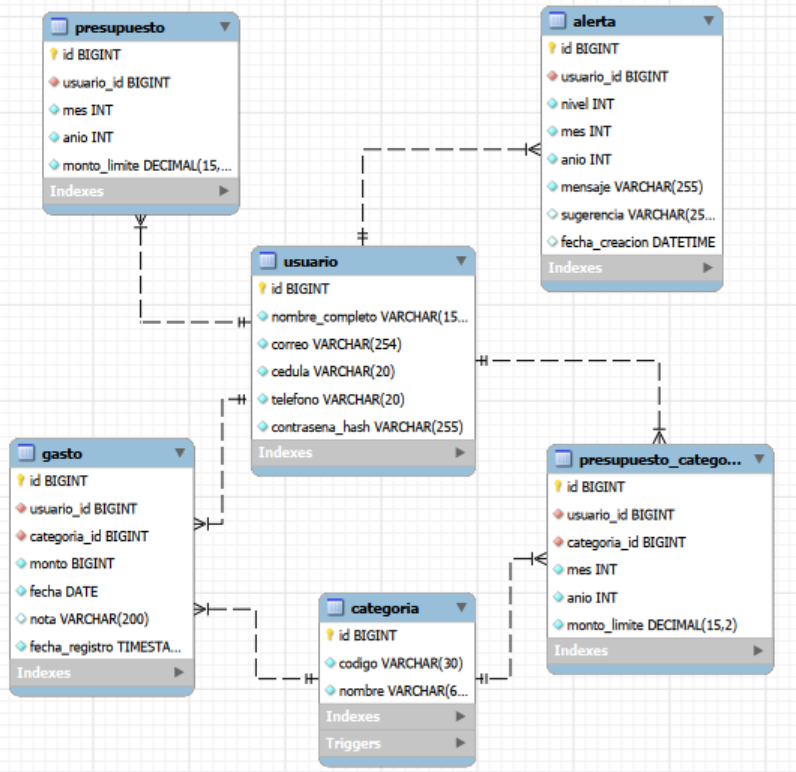
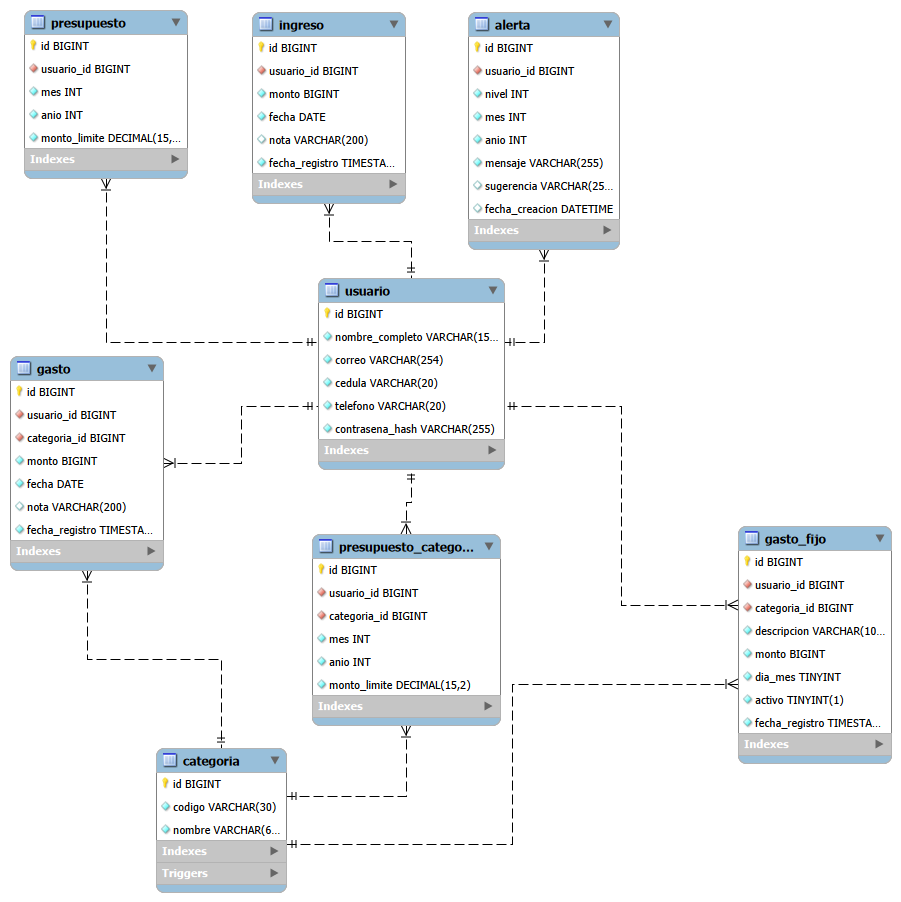
feat(CFP-35): agrega ingresos, gastos fijos, vistas del Dashboard y datos semilla

diff --git a/docs/modelo-datos.md b/docs/modelo-datos.md
@@ -1,7 +1,7 @@
-# Modelo de datos – Sprint 1 y Sprint 2
+# Modelo de datos – Sprints 1, 2 y 3
 
-Responsable actual: Luis Fernando Salazar (Datos) · Subtareas: CFP-25 (Sprint 1) y CFP-30 (Sprint 2)
-Motor: MySQL 8 · Scripts: db/schema.sql, db/migraciones/V2__presupuesto_y_alertas.sql, db/pruebas.sql y db/migraciones/pruebas_V2.sql
+Responsable actual: Luis Fernando Salazar (Datos) · Subtareas: CFP-25 (Sprint 1), CFP-30 (Sprint 2) y CFP-35 (Sprint 3)
+Motor: MySQL 8 · Scripts: db/schema.sql, db/migraciones/V2__presupuesto_y_alertas.sql, db/migraciones/V3__ingresos_gastos_fijos_y_vistas.sql y sus pruebas
 
 ## Diagrama entidad-relación
 
@@ -17,6 +17,8 @@ Motor: MySQL 8 · Scripts: db/schema.sql, db/migraciones/V2__presupuesto_y_alert
 | Presupuesto (Sprint 2) | id, usuario_id, mes, anio, monto_limite | Definido | Pertenece a un usuario | Gasto mensual del usuario (RF-07); uno por usuario y mes; monto > 0; mes de 1 a 12 |
 | Presupuesto por categoría (Sprint 2) | id, usuario_id, categoria_id, mes, anio, monto_limite | Definido | Pertenece a un usuario y a una categoría | Gasto fijado por categoría (RF-07); uno por usuario, categoría y mes; monto > 0 |
 | Alerta (Sprint 2) | id, usuario_id, nivel, mes, anio, mensaje, sugerencia, fecha_creacion | Generada | Pertenece a un usuario | Nivel 70, 80 o 90 (RF-09, RN-04); la misma alerta no se repite en el mes (CA-19); se reinicia cada mes (CA-20); incluye sugerencia (RN-06) |
+| Ingreso (Sprint 3) | id, usuario_id, monto, fecha, nota, fecha_registro | Registrado | Pertenece a un usuario | Monto > 0 (RN-01); fecha obligatoria; nota opcional de 200 caracteres (RN-08); no tiene categoría (RF-02) |
+| Gasto fijo (Sprint 3) | id, usuario_id, categoria_id, descripcion, monto, dia_mes, activo, fecha_registro | Activo / inactivo | Pertenece a un usuario y a una categoría | Monto > 0; día del mes de 1 a 28 (existe en todos los meses); un usuario no repite la misma descripción (RF-06) |
 | Total y porcentaje del mes (calculado) | Suma de montos por usuario y mes, y porcentaje sobre el presupuesto | — | Se calcula desde Gasto y Presupuesto | No se guarda, para que coincida con lo registrado (RN-07, RNF-01) |
 
 ## Relaciones
@@ -25,17 +27,31 @@ Motor: MySQL 8 · Scripts: db/schema.sql, db/migraciones/V2__presupuesto_y_alert
 - USUARIO 1 ──< PRESUPUESTO
 - USUARIO 1 ──< PRESUPUESTO_CATEGORIA >── 1 CATEGORIA
 - USUARIO 1 ──< ALERTA
+- USUARIO 1 ──< INGRESO
+- USUARIO 1 ──< GASTO_FIJO >── 1 CATEGORIA
+
+## Vistas (Sprint 3)
+
+| Vista | Para qué sirve | Requisito |
+|---|---|---|
+| v_movimiento | Ingresos y gastos en una sola lista (tipo, fecha, monto, categoría, nota) | RF-11 (CFP-14) y filtro por fechas RF-14 (CFP-21) |
+| v_resumen_mensual | Total de ingresos, total de gastos y balance por usuario y mes | RF-12 (CFP-19) |
+| v_gasto_por_categoria | Total y porcentaje de cada categoría en los gastos del mes | RF-13 (CFP-20) |
+
+Las vistas no guardan datos: se calculan cada vez desde ingreso y gasto, así lo que se muestra coincide con lo registrado (RN-07). Las consultas de ejemplo están en db/consultas_dashboard.sql.
 
 ## Cómo crear la base
 
 1. En MySQL Workbench ejecutar db/schema.sql (crea cfp_dev, 3 tablas y 5 categorías).
 2. Ejecutar db/migraciones/V2__presupuesto_y_alertas.sql (agrega presupuesto, presupuesto_categoria y alerta, y deja el teléfono obligatorio). Deben quedar 6 tablas.
-3. Opcional: ejecutar db/pruebas.sql y luego CALL sp_cfp25_verificar(); (12 pruebas del Sprint 1), y db/migraciones/pruebas_V2.sql, cada INSERT con Ctrl + Enter (9 pruebas del Sprint 2).
-4. Arrancar el backend después de crear la base.
-5. Para empezar de cero en desarrollo: ejecutar db/reset.sql y repetir los pasos 1 y 2.
+3. Ejecutar db/migraciones/V3__ingresos_gastos_fijos_y_vistas.sql (agrega ingreso, gasto_fijo y las 3 vistas). Deben quedar 8 tablas y 3 vistas.
+4. Opcional: ejecutar db/pruebas.sql y luego CALL sp_cfp25_verificar(); (12 pruebas del Sprint 1), y db/migraciones/pruebas_V2.sql, cada INSERT con Ctrl + Enter (9 pruebas del Sprint 2), y db/migraciones/pruebas_V3.sql (10 pruebas del Sprint 3).
+5. Opcional: arrancar el backend una vez y ejecutar db/datos_semilla.sql para cargar datos de ejemplo del Dashboard.
+6. Arrancar el backend después de crear la base.
+7. Para empezar de cero en desarrollo: ejecutar db/reset.sql y repetir los pasos 1 a 3.
 
 ## Notas
 
 - El backend valida que las tablas coincidan con sus entidades (ddl-auto=validate): todo cambio se coordina con Backend.
 - Cada sprint agrega su propio script en db/migraciones (V2, V3…) sin modificar db/schema.sql.
-- Las evidencias de las pruebas están en docs/evidencias/CFP-25/ (Sprint 1) y docs/evidencias/CFP-30/ (Sprint 2).
+- Las evidencias de las pruebas están en docs/evidencias/CFP-25/ (Sprint 1) y docs/evidencias/CFP-30/ (Sprint 2) y docs/evidencias/CFP-35/ (Sprint 3).
